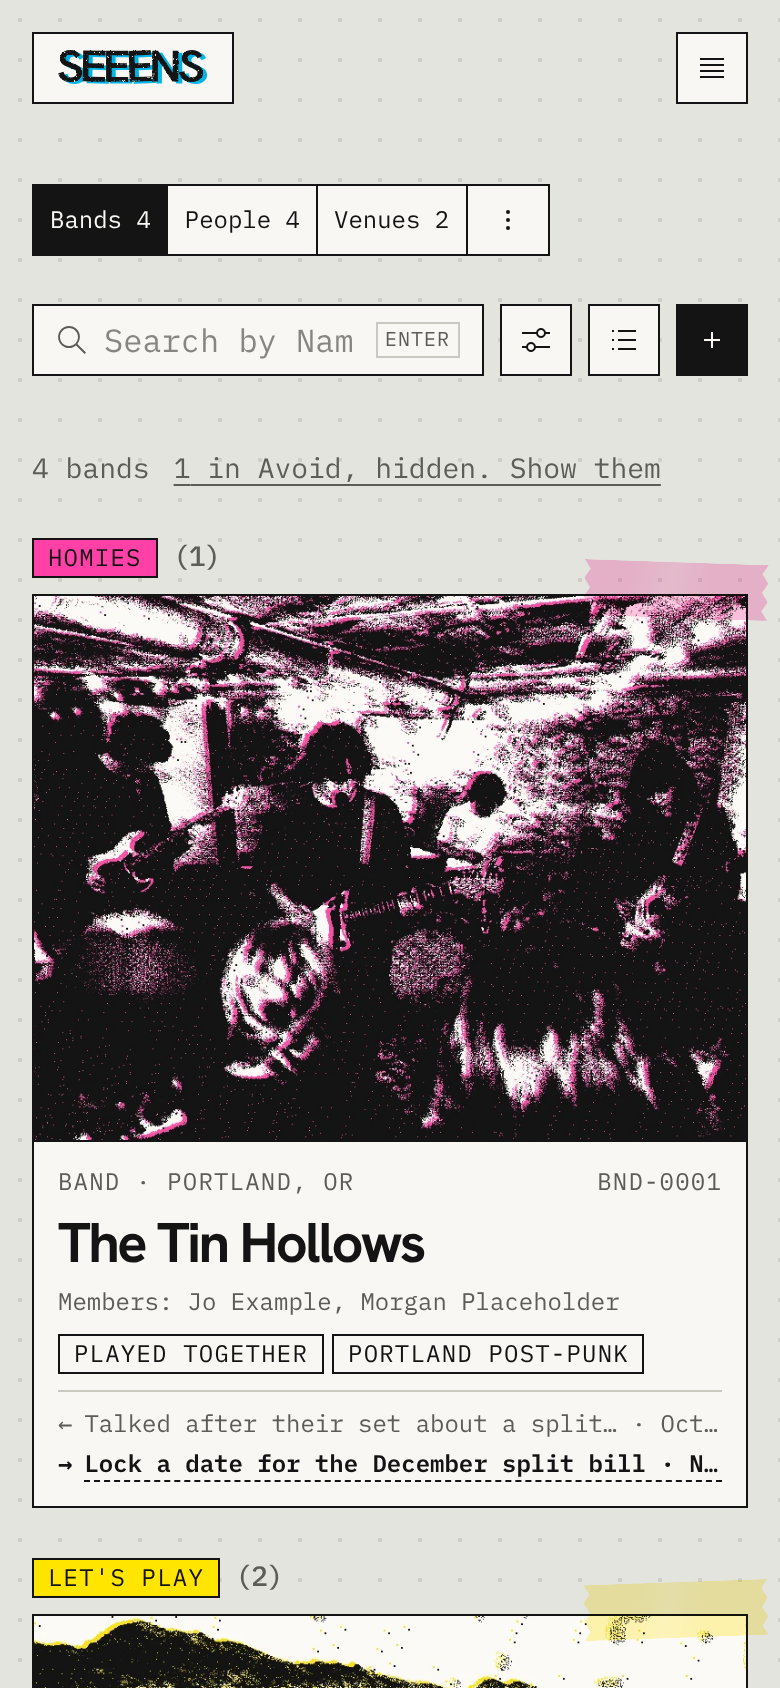
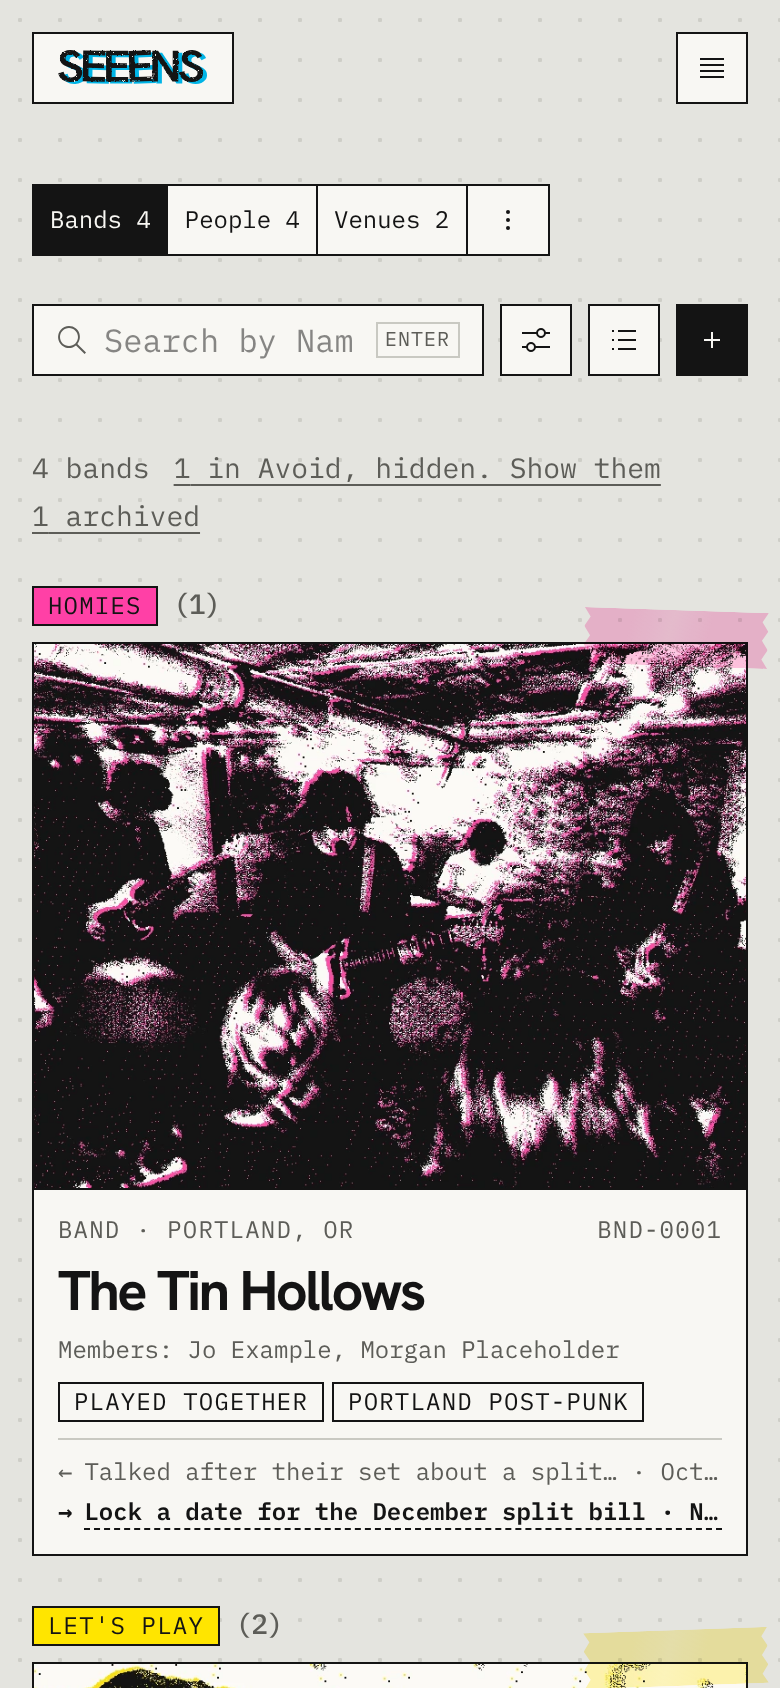
Archived moves from the filter bar to the count line
The checkbox took a field slot for something rarely used. Now the count line
says "1 archived" (per tab, from directory_page counts.archived) and opens
the archived view, which reads "Archived · 1 band · Back to the directory"
and keeps its half while you search and filter. Seed gets an archived band.

Claude-Session: https://claude.ai/code/session_01SMP6NnyPkRALtU7G1T7uNS

Changed region(s): [[0.0308, 0.3081, 0.9846, 1.0]]

diff --git a/src/app/(app)/page.tsx b/src/app/(app)/page.tsx
@@ -73,7 +73,7 @@ async function Directory({
     .sort((x, y) => x[1].localeCompare(y[1]));
   // The results' state resets whenever the filters change.
   const query = resultsQuery(params);
-  const filtersOpen = Boolean(filters.statuses.length || filters.scene || filters.town || filters.instrument || archived);
+  const filtersOpen = Boolean(filters.statuses.length || filters.scene || filters.town || filters.instrument);
 
   return (
     // key: a server render with a different layout (a shared link) resets it.
@@ -107,7 +107,12 @@ async function Directory({
 
         {c.view === 0 ? (
           archived ? (
-            <p className="text-muted">Nothing archived.</p>
+            <p className="text-sm text-muted">
+              Nothing archived.{" "}
+              <Link href={directoryHref(tab, EMPTY)} className="link">
+                Back to the directory
+              </Link>
+            </p>
           ) : (
             <div className="flex flex-col items-start gap-3 border border-dashed border-strong bg-surface p-6">
               <p className="font-medium">No connections yet.</p>
@@ -118,6 +123,11 @@ async function Directory({
               <Link href="/connections/new" className="button-secondary">
                 Add Your First Connection
               </Link>
+              {c.archived ? (
+                <Link href={directoryHref(tab, { ...EMPTY, archived: true })} className="link text-sm">
+                  {c.archived} archived
+                </Link>
+              ) : null}
             </div>
           )
         ) : (
@@ -126,11 +136,14 @@ async function Directory({
               className="flex flex-wrap items-baseline gap-x-3 gap-y-1 text-sm text-muted"
               aria-live="polite"
             >
+              {/* The archived view says so first, with the way back (Archived
+                  lives here, not in the filter bar: it's a different half). */}
+              {archived ? <p className="font-medium text-primary">Archived</p> : null}
               <p>
                 {/* How many match, never how many are loaded (that's under the list). */}
                 {filtering
                   ? `${c.matched} of ${c.total} match`
-                  : `${c.matched} ${c.matched === 1 ? current.one : current.many}${archived ? " archived" : ""}`}
+                  : `${c.matched} ${c.matched === 1 ? current.one : current.many}`}
               </p>
               {c.hiddenAvoid ? (
                 <Link href={directoryHref(tab, { ...filters, statuses: ["avoid"] })} className="link">
@@ -145,6 +158,15 @@ async function Directory({
               {after ? (
                 <Link href={query ? `/?${query}` : "/"} className="link">
                   Back to the start
+                </Link>
+              ) : null}
+              {archived ? (
+                <Link href={directoryHref(tab, EMPTY)} className="link">
+                  Back to the directory
+                </Link>
+              ) : c.archived ? (
+                <Link href={directoryHref(tab, { ...EMPTY, archived: true })} className="link">
+                  {c.archived} archived
                 </Link>
               ) : null}
             </div>
@@ -296,7 +318,7 @@ function FilterForm({
 }) {
   // Plays (#140) is for people: on People and All, and only if anyone plays something.
   const showPlays = (tab === "people" || tab === "all") && (instruments.length > 0 || Boolean(f.instrument));
-  const active = [f.statuses.length, f.scene, f.town, showPlays && f.instrument, f.archived].filter(Boolean).length;
+  const active = [f.statuses.length, f.scene, f.town, showPlays && f.instrument].filter(Boolean).length;
   return (
     <AutoFilterForm
       role="search"
@@ -304,6 +326,8 @@ function FilterForm({
       className="bar-search"
     >
       {tab !== DEFAULT_TAB ? <input type="hidden" name="type" value={tab} /> : null}
+      {/* The archived view keeps its half while you search and filter. */}
+      {f.archived ? <input type="hidden" name="archived" value="1" /> : null}
       <FilterDisclosure
         initialOpen={open}
         active={active}
@@ -400,10 +424,6 @@ function FilterForm({
               autoSubmit
             />
           ) : null}
-          <label className="choice">
-            <input type="checkbox" name="archived" value="1" defaultChecked={f.archived} />
-            Archived
-          </label>
         </div>
       </FilterDisclosure>
     </AutoFilterForm>

diff --git a/src/lib/connections/directory.ts b/src/lib/connections/directory.ts
@@ -78,6 +78,8 @@ export type DirectoryCounts = {
   matched: number;
   groups: GroupCounts;
   hiddenAvoid: number;
+  /** How many in this tab are archived (0 inside the archived view). */
+  archived: number;
   /** Each tab's count under the other filters. */
   types: TabCounts;
   /** Instruments people in this half play, for the Plays filter (#140). */
@@ -108,6 +110,7 @@ type RpcResult = {
     matched: number;
     groups: GroupCounts;
     hidden_avoid: number;
+    archived: number;
     types: TabCounts;
     instruments: string[];
     towns: DirectoryCounts["towns"];
@@ -205,6 +208,7 @@ export async function loadDirectoryPage(
           matched: c.matched,
           groups: c.groups,
           hiddenAvoid: c.hidden_avoid,
+          archived: c.archived,
           types: c.types,
           instruments: c.instruments.filter((i): i is Instrument => i in INSTRUMENTS),
           towns: c.towns,

diff --git a/src/components/filter-form.tsx b/src/components/filter-form.tsx
@@ -7,7 +7,7 @@ import { useEffect, useId, useRef, useState } from "react";
 
 // The directory's search and filter form. A plain GET form (the URL stays
 // shareable), navigated client-side by next/form. Menus apply as soon as
-// they change, and so does the Archived checkbox; the name search still waits
+// they change (and so would any checkbox); the name search still waits
 // for Enter or the button.
 export function AutoFilterForm({
   children,

diff --git a/README.md b/README.md
@@ -38,7 +38,7 @@ To regenerate them, run `npm run db:reset` and `npm run dev`, then `npm run scre
 - **Shared access:** authorized band members can work with the same private data across devices.
 - **Portability:** export the directory to CSV.
 
-Search by name and filter by status, scene (a bigger scene includes the scenes inside it), and town, or look at the archived ones. Crushes are picked by hand; automated discovery is deferred.
+Search by name and filter by status, scene (a bigger scene includes the scenes inside it), town, and what people play, or open the archived ones from the count line. Crushes are picked by hand; automated discovery is deferred.
 
 ## Architecture
 
@@ -88,7 +88,7 @@ Priorities live on the issues (`priority: now`, `next`, `later`); this is the or
 The MVP launched on November 1, 2026. What it does:
 
 - Email/password sign-in, with access limited to workspace members.
-- Directory: add, edit, view, and archive connections; tabs by type (Bands, People, Venues, Labels & more, All); search, status, scene, town, plays, and archived filters.
+- Directory: add, edit, view, and archive connections; tabs by type (Bands, People, Venues, Labels & more, All); search, status, scene, town, and plays filters; archived ones are a link under the bar.
 - Scenes, including scenes inside bigger ones, and town search from GeoNames.
 - Status and "we've played together," saved as soon as you change them. Marking a band offers to mark its current members too (and a person, their bands); new members can take the band's town, scenes, and played together.
 - Affiliations between connections (members, labels, related bands, venues), with quick instrument picks when adding a member.
